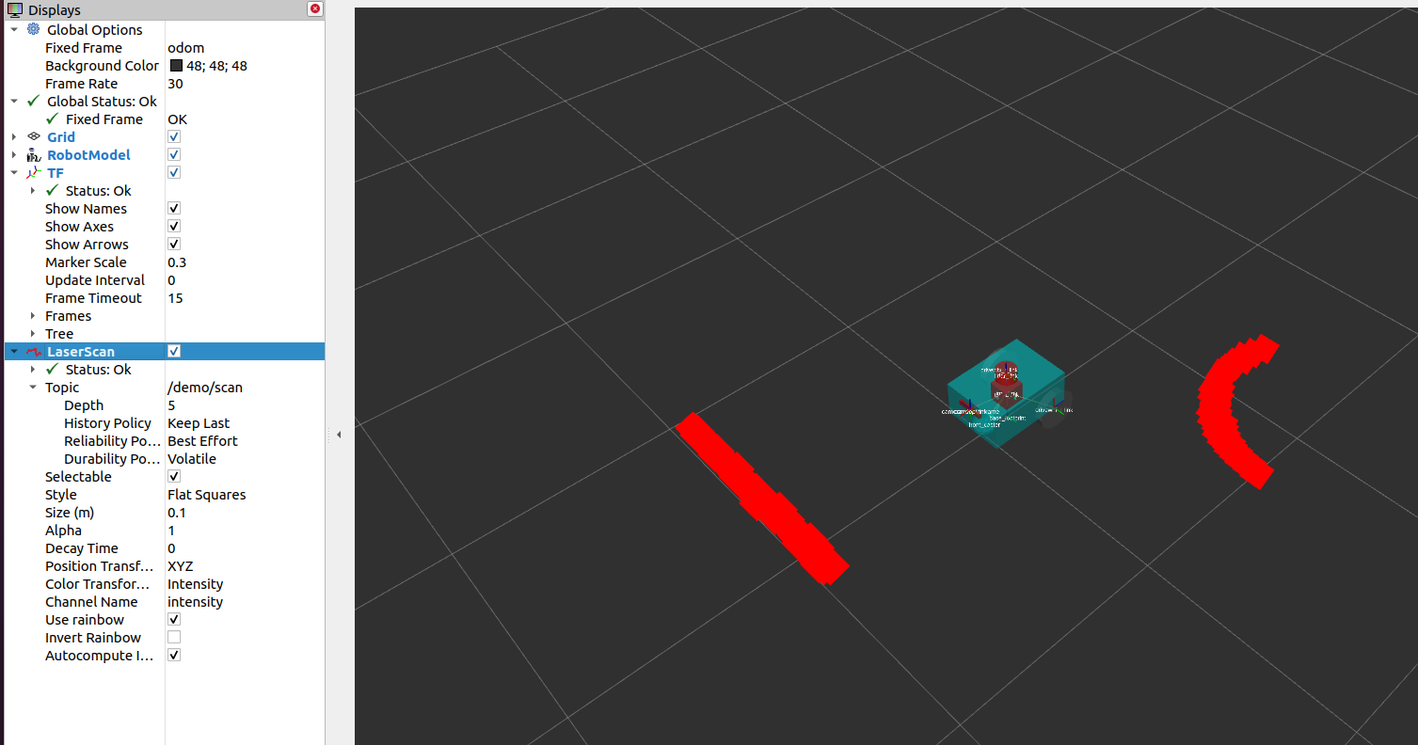
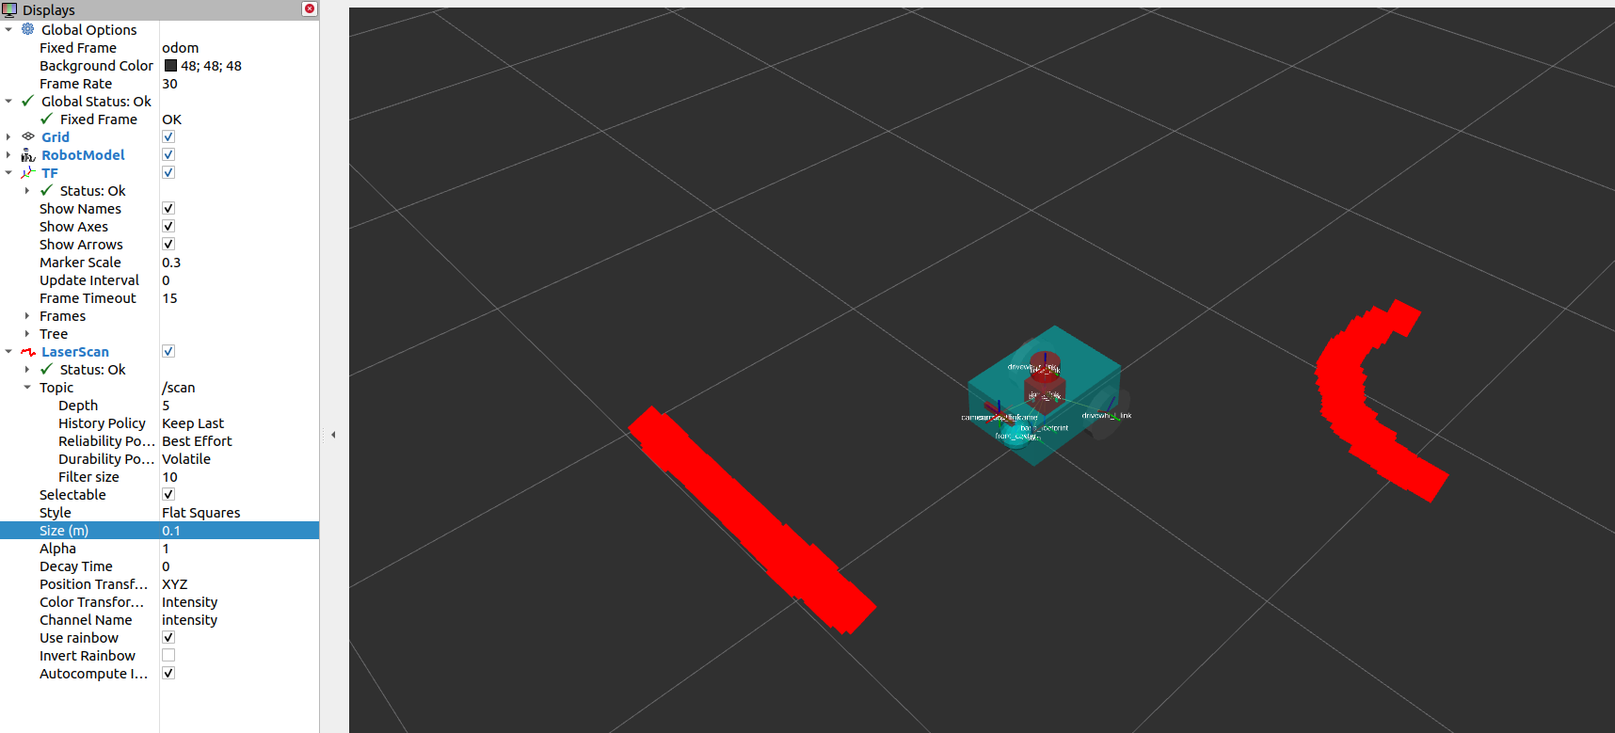
Changes according to code review

diff --git a/setup_guides/sensors/setup_sensors.rst b/setup_guides/sensors/setup_sensors.rst
@@ -30,46 +30,28 @@ sensor_msgs/LaserScan
 
 This message represents a single scan from a planar laser range-finder. This message is used in ``slam_toolbox`` and ``nav2_amcl`` for localization and mapping, or in ``nav2_costmap_2d`` for perception.
 
-.. image:: images/sensor_laserscan_gazebo.png
-    :class: with-border
-    :width: 49 %
-
-.. image:: images/sensor_laserscan_rviz.png
-    :class: with-border
-    :width: 49 %   
+.. image:: images/sensor_laserscan.png
 
 sensor_msgs/PointCloud2
 -----------------------
 
 This message holds a collection of 3D points, plus optional additional information about each point. This can be from a 3D lidar, a 2D lidar, a depth camera or more.
 
-.. image:: images/sensor_pointcloud2_gazebo.png
-    :width: 35 %
-
-.. image:: images/sensor_pointcloud2_rviz.png
-    :width: 49 %  
+.. image:: images/sensor_pointcloud2.png
 
 sensor_msgs/Range
 -----------------
 
 This is a single range reading from an active ranger that emits energy and reports one range reading that is valid along an arc at the distance measured. A sonar, IR sensor, or 1D range finder are examples of sensors that use this message.
 
-.. image:: images/sensor_range_gazebo.png
-    :width: 49 %
-
-.. image:: images/sensor_range_rviz.png
-    :width: 49 %   
+.. image:: images/sensor_range.png
 
 sensor_msgs/Image
 -----------------
 
 This represents the sensor readings from RGB or depth camera, corresponding to RGB or range values.
 
-.. image:: images/sensor_image_gazebo.png
-    :width: 43 %
-
-.. image:: images/sensor_image_rviz.png
-    :width: 49 %   
+.. image:: images/sensor_image.png
 
 Simulating Sensors using Gazebo
 *******************************
@@ -84,7 +66,7 @@ Adding Gazebo Plugins to a URDF
 Let us first add a lidar sensor to ``sam_bot``. Open the URDF file, `src/description/sam_bot_description.urdf <https://github.com/ros-planning/navigation2_tutorials/blob/master/sam_bot_description/src/description/sam_bot_description.urdf>`_ and paste the following lines before the ``</robot>`` tag.
 
 .. code-block:: xml
-  :lineno-start: 249
+  :lineno-start: 251
 
   <link name="lidar_link">
     <inertial>
@@ -141,7 +123,6 @@ Let us first add a lidar sensor to ``sam_bot``. Open the URDF file, `src/descrip
       </ray>
       <plugin name="scan" filename="libgazebo_ros_ray_sensor.so">
         <ros>
-          <namespace>/demo</namespace>
           <remapping>~/out:=scan</remapping>
         </ros>
         <output_type>sensor_msgs/LaserScan</output_type>
@@ -150,12 +131,12 @@ Let us first add a lidar sensor to ``sam_bot``. Open the URDF file, `src/descrip
     </sensor>
   </gazebo>
 
-In the code snippet above, we create a ``lidar_link`` which will be referenced by the ``gazebo_ros_ray_sensor`` plugin as the location to attach our sensor. We also set values to the simulated lidar's scan and range properties. Lastly, we set the ``demo/scan`` as the topic to which it will publish the ``sensor_msgs/LaserScan`` messages.
+In the code snippet above, we create a ``lidar_link`` which will be referenced by the ``gazebo_ros_ray_sensor`` plugin as the location to attach our sensor. We also set values to the simulated lidar's scan and range properties. Lastly, we set the ``/scan`` as the topic to which it will publish the ``sensor_msgs/LaserScan`` messages.
 
 Next, let us add a depth camera to ``sam_bot``. Paste the following lines after the ``</gazebo>`` tag of the lidar sensor. 
 
 .. code-block:: xml
-  :lineno-start: 313
+  :lineno-start: 314
 
   <link name="camera_link">
     <visual>
@@ -210,9 +191,6 @@ Next, let us add a depth camera to ``sam_bot``. Paste the following lines after 
         </clip>
       </camera>
       <plugin name="depth_camera_controller" filename="libgazebo_ros_camera.so">
-        <ros>
-          <namespace>/demo</namespace>
-        </ros>
         <baseline>0.2</baseline>
         <alwaysOn>true</alwaysOn>
         <updateRate>0.0</updateRate>
@@ -233,7 +211,7 @@ Next, let us add a depth camera to ``sam_bot``. Paste the following lines after 
     </sensor>
   </gazebo>
 
-Similar to the lidar sensor, we create ``camera_link`` which will be referenced by the ``gazebo_ros_camera`` plugin as the sensor attachment location. We also create a ``camera_depth_frame`` that is attached to the ``camera_link`` and will be set as the ``<frameName>`` of the depth camera plugin.  We also configure the plugin such that it will publish ``sensor_msgs/Image`` and ``sensor_msgs/PointCloud2`` messages to ``/demo/depth_camera/image_raw`` and  ``/demo/depth_camera/points`` topics respectively. Lastly, we also set up other basic configuration properties for our depth camera.
+Similar to the lidar sensor, we create ``camera_link`` which will be referenced by the ``gazebo_ros_camera`` plugin as the sensor attachment location. We also create a ``camera_depth_frame`` that is attached to the ``camera_link`` and will be set as the ``<frameName>`` of the depth camera plugin.  We also configure the plugin such that it will publish ``sensor_msgs/Image`` and ``sensor_msgs/PointCloud2`` messages to ``/depth_camera/image_raw`` and  ``/depth_camera/points`` topics respectively. Lastly, we also set up other basic configuration properties for our depth camera.
 
 Launch and Build Files
 ======================
@@ -285,25 +263,22 @@ In the RViz window, we can verify if we have properly modeled our sensors and if
 .. image:: images/rviz_sensors.png
     :align: center
 
-Lastly, we can also visualize the sensor readings in RViz.  To visualize the ``sensor_msgs/LaserScan`` message published on ``demo/scan`` topic, click the add button at the bottom part of the RViz window. Then go to the ``By topic`` tab and select the ``LaserScan`` option under ``/demo/scan``, as shown below.
+Lastly, we can also visualize the sensor readings in RViz.  To visualize the ``sensor_msgs/LaserScan`` message published on ``/scan`` topic, click the add button at the bottom part of the RViz window. Then go to the ``By topic`` tab and select the ``LaserScan`` option under ``/scan``, as shown below.
 
 .. image:: images/add_topic_laserscan.png
     :align: center
+    :width: 400
 
-Next, set the ``Reliability Policy`` to ``Best Effort`` and set the ``size`` to 0.1 to see the points clearer. You should see the visualized ``LaserScan`` detection as shown below. This corresponds to the detected cube and sphere that we added to the Gazebo world. 
+Next, set the ``Reliability Policy`` in RViz to ``Best Effort`` and set the ``size`` to 0.1 to see the points clearer. You should see the visualized ``LaserScan`` detection as shown below. This corresponds to the detected cube and sphere that we added to the Gazebo world. 
 
 .. image:: images/demo_laserscan_rviz.png
     :align: center
 
-To visualize ``sensor_msgs/Image`` and ``sensor_msgs/PointCloud2``, do the same for topics ``demo/depth_camera/image_raw`` and ``/demo/depth_camera/points`` respectively:
+To visualize ``sensor_msgs/Image`` and ``sensor_msgs/PointCloud2``, do the same for topics ``/depth_camera/image_raw`` and ``/depth_camera/points`` respectively:
 
-.. image:: images/add_topic_image.png
-    :width: 49 %
+.. image:: images/add_topic_image_pointcloud2.png
 
-.. image:: images/add_topic_pointcloud2.png
-    :width: 49 %
-
-After adding the ``demo/depth_camera/image_raw`` topic in RViz, you should see the cube in the image window at the lower-left side of the RViz window, as shown below.
+After adding the ``/depth_camera/image_raw`` topic in RViz, set the ``Reliability Policy`` in RViz to ``Best Effort``. Then you should see the cube in the image window at the lower-left side of the RViz window, as shown below.
 
 .. image:: images/demo_image_rviz.png
     :align: center
@@ -318,7 +293,9 @@ Mapping and Localization
 ************************
 Now that we have a robot with its sensors set up, we can use the obtained sensor information to build a map of the environment and to localize the robot on the map. The ``slam_toolbox`` package is a set of tools and capabilities for 2D Simultaneous Localization and Mapping (SLAM) in potentially massive maps with ROS2. It is also one of the officially supported SLAM libraries in Nav2, and we recommend to use this package in situations you need to use SLAM on your robot setup. Aside from the ``slam_toolbox``, localization can also be implemented through the ``nav2_amcl`` package. This package implements Adaptive Monte Carlo Localization (AMCL) which estimates the position and orientation of the robot in a map. Other techniques may also be available, please check Nav2 documentation for more information.
 
-Both the ``slam_toolbox`` and ``nav2_amcl`` use information from the laser scan sensor to be able to perceive the robot's environment. Hence, to verify that they can access the laser scan sensor readings, we must make sure that they are subscribed to the correct topic that publishes the ``sensor_msgs/LaserScan`` message. This can be configured by setting their ``scan_topic`` parameters to the topic that publishes that message. In-depth discussions on the complete configuration parameters will not be a scope of our tutorials since they can be pretty complex. Instead, we recommend you to have a look at their official documentation in the links below.
+Both the ``slam_toolbox`` and ``nav2_amcl`` use information from the laser scan sensor to be able to perceive the robot's environment. Hence, to verify that they can access the laser scan sensor readings, we must make sure that they are subscribed to the correct topic that publishes the ``sensor_msgs/LaserScan`` message. This can be configured by setting their ``scan_topic`` parameters to the topic that publishes that message. It is a convention to publish the ``sensor_msgs/LaserScan`` messages to  ``/scan`` topic. Thus, by default, the ``scan_topic`` parameter is set to ``/scan``. Recall that when we added the lidar sensor to ``sam_bot`` in the previous section, we set the topic to which the lidar sensor will publish the ``sensor_msgs/LaserScan`` messages as ``/scan``. 
+
+In-depth discussions on the complete configuration parameters will not be a scope of our tutorials since they can be pretty complex. Instead, we recommend you to have a look at their official documentation in the links below.
 
 .. seealso::
   | For the complete list of configuration parameters of ``slam_toolbox``, see the `Github repository of slam_toolbox <https://github.com/SteveMacenski/slam_toolbox#readme>`_.
@@ -328,18 +305,17 @@ Both the ``slam_toolbox`` and ``nav2_amcl`` use information from the laser scan 
 You can also refer to the `(SLAM) Navigating While Mapping guide <https://navigation.ros.org/tutorials/docs/navigation2_with_slam.html>`_ for the tutorial on how to use Nav2 with SLAM. You can verify that ``slam_toolbox`` and ``nav2_amcl`` have been correctly setup by visualizing the map and the robot's pose in RViz, similar to what was shown in the previous section.
 
 
-Costmap_2D
+Costmap 2D
 **********
-The costmap represents the environment of the robot in the form of an occupancy grid. The cells in the occupancy grid store cost values between 0-254 which denote a cost to travel through these zones. A cost of 0 means the cell is free while a cost of 254 means that the cell is lethally occupied. Values in between these extremes are used by navigation algorithms to steer your robot away from obstacles as a potential field. Costmaps in Nav2 are implemented through the ``nav2_costmap_2d`` package. 
+The costmap 2D package makes use of the sensor information to provide a representation of the robot's environment in the form of an occupancy grid. The cells in the occupancy grid store cost values between 0-254 which denote a cost to travel through these zones. A cost of 0 means the cell is free while a cost of 254 means that the cell is lethally occupied. Values in between these extremes are used by navigation algorithms to steer your robot away from obstacles as a potential field. Costmaps in Nav2 are implemented through the ``nav2_costmap_2d`` package. 
 
-The costmap implementation consists of multiple layers, each of which has a certain function that contributes to a cell's overall cost. The package consists of the following layers, but are plugin-based to allow customization and new layers to be used as well: static layer, inflation layer, range layer, obstacle layer, and voxel layer. The static layer represents the map section of the costmap, like those produced by SLAM. The obstacle layer includes the obstacles reported by sensors in 2D. The voxel layer is similar to the obstacle layer but handles 3D data instead. The range layer allows for the inclusion of sonar and infrared data to our costmap. Lastly, the inflation layer represents the added cost values around lethal obstacles such that our robot avoids navigating into obstacles due to the robot's geometry. In the next subsection of this tutorial, we will have some discussion about the basic configuration of the different layers in ``nav2_costmap_2d``. 
+The costmap implementation consists of multiple layers, each of which has a certain function that contributes to a cell's overall cost. The package consists of the following layers, but are plugin-based to allow customization and new layers to be used as well: static layer, inflation layer, range layer, obstacle layer, and voxel layer. The static layer represents the map section of the costmap, obtained from the messages published to the ``/map`` topic like those produced by SLAM.  The obstacle layer includes the objects detected by sensors that publish either or both the ``LaserScan`` and ``PointCloud2`` messages. The voxel layer is similar to the obstacle layer such that it can use either or both the ``LaserScan`` and ``PointCloud2`` sensor information but handles 3D data instead. The range layer allows for the inclusion of information provided by sonar and infrared sensors. Lastly, the inflation layer represents the added cost values around lethal obstacles such that our robot avoids navigating into obstacles due to the robot's geometry. In the next subsection of this tutorial, we will have some discussion about the basic configuration of the different layers in ``nav2_costmap_2d``. 
 
 The layers are integrated into the costmap through a plugin interface and then inflated using a user-specified `inflation radius <http://wiki.ros.org/costmap_2d/hydro/inflation>`_, if the inflation layer is enabled. For a deeper discussion on costmap concepts, you can have a look at the `ROS1 costmap_2D documentation <http://wiki.ros.org/costmap_2d>`_. Note that the ``nav2_costmap_2d`` package is mostly a straightforward ROS2 port of the ROS1 navigation stack version with minor changes required for ROS2 support and some new layer plugins.
 
-Configuring Costmap_2D
-======================
-
-In this subsection, we will show an example configuration of ``costmap_2d`` and explain the basic configuration parameters for your sensors. The code block below is an example of ``costmap_2d`` configuration using static layer, obstacle layer, voxel layer, and inflation layer. Note that this block of parameters will be included in the `config/nav2_params.yaml <https://github.com/ros-planning/navigation2_tutorials/blob/master/sam_bot_description/config/nav2_params.yaml>`_ file  when we launch Nav2 at the end of this section.
+Configuring nav2_costmap_2d
+===========================
+In this subsection, we will show an example configuration of ``nav2_costmap_2d`` such that it uses the information provided by the lidar sensor of ``sam_bot``. We will show an example configuration that uses static layer, obstacle layer, voxel layer, and inflation layer. We set both the obstacle and voxel layer to use the ``LaserScan`` messages published  to the ``/scan`` topic by the lidar sensor. We also set some of the basic parameters to define how the detected obstacles are reflected in the costmap. Note that this configuration is to be included in the configuration file of Nav2. 
 
 .. code-block:: yaml
   :lineno-start: 1
@@ -352,10 +328,10 @@ In this subsection, we will show an example configuration of ``costmap_2d`` and 
         global_frame: map
         robot_base_frame: base_link
         use_sim_time: True
-        robot_radius: 0.3
+        robot_radius: 0.22
         resolution: 0.05
-        track_unknown_space: true
-        rolling_window: true
+        track_unknown_space: false
+        rolling_window: false
         plugins: ["static_layer", "obstacle_layer", "inflation_layer"]
         static_layer:
           plugin: "nav2_costmap_2d::StaticLayer"
@@ -365,7 +341,7 @@ In this subsection, we will show an example configuration of ``costmap_2d`` and 
           enabled: True
           observation_sources: scan
           scan:
-            topic: /demo/scan
+            topic: /scan
             max_obstacle_height: 2.0
             clearing: True
             marking: True
@@ -392,7 +368,7 @@ In this subsection, we will show an example configuration of ``costmap_2d`` and 
         width: 3
         height: 3
         resolution: 0.05
-        footprint: "[ [0.21, 0.195], [0.21, -0.195], [-0.21, -0.195], [-0.21, 0.195] ]"
+        robot_radius: 0.22
         plugins: ["voxel_layer", "inflation_layer"]
         voxel_layer:
           plugin: "nav2_costmap_2d::VoxelLayer"
@@ -405,7 +381,7 @@ In this subsection, we will show an example configuration of ``costmap_2d`` and 
           mark_threshold: 0
           observation_sources: scan
           scan:
-            topic: /demo/scan
+            topic: /scan
             max_obstacle_height: 2.0
             clearing: True
             marking: True
@@ -422,7 +398,7 @@ The layers that we use for our configuration are defined in the ``plugins`` para
 
 For the static layer (lines 14-16), we set the ``map_subscribe_transient_local`` parameter to ``True``. This sets the QoS settings for the map topic. Another important parameter for the static layer is the ``map_topic`` which defines the map topic to subscribe to. This defaults to ``/map`` topic when not defined. 
 
-For the obstacle layer (lines 17-30), we define its sensor source under the ``observation_sources`` parameter (line 20) as ``scan`` whose parameters are set up in lines 22-30. We set its ``topic`` parameter as the topic that publishes the defined sensor source and we set the ``data_type`` according to the sensor source it will use. In our configuration, the obstacle layer will use the ``LaserScan`` published by the lidar scanner on the ``/demo/scan``. 
+For the obstacle layer (lines 17-30), we define its sensor source under the ``observation_sources`` parameter (line 20) as ``scan`` whose parameters are set up in lines 22-30. We set its ``topic`` parameter as the topic that publishes the defined sensor source and we set the ``data_type`` according to the sensor source it will use. In our configuration, the obstacle layer will use the ``LaserScan`` published by the lidar sensor to ``/scan``. 
 
 Note that the obstacle layer and voxel layer can use either or both ``LaserScan`` and ``PointCloud2`` as their ``data_type`` but it is set to ``LaserScan`` by default. The code snippet below shows an example of using both the ``LaserScan`` and ``PointCloud2`` as the sensor sources. This may be particularly useful when setting up your own physical robot.
 
@@ -433,17 +409,17 @@ Note that the obstacle layer and voxel layer can use either or both ``LaserScan`
     enabled: True
     observation_sources: scan pointcloud
     scan:
-      topic: /demo/scan
+      topic: /scan
       data_type: "LaserScan"
     pointcloud:
-      topic: /demo/depth_camera/points
+      topic: /depth_camera/points
       data_type: "PointCloud2"
 
 For the other parameters of the obstacle layer, the ``max_obstacle_height`` parameter sets the maximum height of the sensor reading to return to the occupancy grid. The minimum height of the sensor reading can also be set using the ``min_obstacle_height`` parameter, which defaults to 0 since we did not set it in the configation. The ``clearing`` parameter is used to set whether the obstacle is to be removed from the costmap or not. The clearing operation is done by raytracing through the grid. The maximum and minimum range to raytrace clear objects from the costmap is set using the ``raytrace_max_range`` and ``raytrace_min_range`` respectively. The ``marking`` parameter is used to set whether the inserted obstacle is marked into the costmap or not. We also set the maximum and minimum range to mark obstacles in the costmap through the ``obstacle_max_range`` and ``obstacle_min_range`` respectively. 
 
 For the inflation layer (lines 31-34 and 67-70), we set the exponential decay factor across the inflation radius using the ``cost_scaling_factor`` parameter. The value of the radius to inflate around lethal obstacles is defined using the ``inflation_radius``. 
 
-For the voxel layer (lines 51-66), we set the ``publish_voxel_map`` parameter to ``True`` to enable the publishing of the 3D voxel grid. The resolution of the voxels in height is defined using the ``z_resolution`` parameter, while the number of voxels in each column is defined using the ``z_voxels`` parameter. The ``mark_threshold`` parameter sets the minimum number of voxels in a column to mark as occupied in the occupancy grid. We set the ``observation_sources`` parameter of the voxel layer to ``scan``, and we set the scan parameters (in lines 61-66) similar to the parameters that we have discussed for the obstacle layer. As defined in its ``topic`` and ``data_type`` parameters, the voxel layer will use the ``LaserSCan`` published on the ``/demo/scan`` topic by the lidar scanner.
+For the voxel layer (lines 51-66), we set the ``publish_voxel_map`` parameter to ``True`` to enable the publishing of the 3D voxel grid. The resolution of the voxels in height is defined using the ``z_resolution`` parameter, while the number of voxels in each column is defined using the ``z_voxels`` parameter. The ``mark_threshold`` parameter sets the minimum number of voxels in a column to mark as occupied in the occupancy grid. We set the ``observation_sources`` parameter of the voxel layer to ``scan``, and we set the scan parameters (in lines 61-66) similar to the parameters that we have discussed for the obstacle layer. As defined in its ``topic`` and ``data_type`` parameters, the voxel layer will use the ``LaserSCan`` published on the ``/scan`` topic by the lidar scanner.
 
 Note that the we are not using a range layer for our configuration but it may be useful for your own robot setup. For the range layer, its basic parameters are the ``topics``, ``input_sensor_type``, and ``clear_on_max_reading`` parameters. The range topics to subscribe to are defined in the ``topics`` parameter. The ``input_sensor_type`` is set to either ``ALL``, ``VARIABLE``, or ``FIXED``. The ``clear_on_max_reading`` is a boolean parameter that sets whether to clear the sensor readings on max range.  Have a look at the configuration guide in the link below in case you need to set it up. 
 
@@ -453,10 +429,24 @@ Note that the we are not using a range layer for our configuration but it may be
 
 Build, Run and Verification
 ===========================
+We will first launch ``display.launch.py`` which launches the robot state publisher that provides the ``base_link`` => ``sensors`` transformations in our URDF. It also launches Gazebo that acts as our physics simulator and also provides the ``odom`` => ``base_link`` from the differential drive plugin, which we added to ``sam_bot`` in the previous guide, `Simulating an Odometry System Using Gazebo <https://navigation.ros.org/setup_guides/odom/setup_odom.html#simulating-an-odometry-system-using-gazebo>`_. It also launches RViz which we can use to visualize the robot and sensor information. 
 
-In this subsection, we will first configure ``slam_toolbox`` to make it subscribe to ``/demo/scan`` topic and then launch it to publish to ``/map`` topic and provide the ``map`` => ``odom`` transform. Recall that the ``map`` => ``odom`` transfrom is one of the primary requirements of the Nav2 system. The messages published on the ``/map`` topic will then be used by the static layer of the ``global_costmap``. 
+Then we will launch ``slam_toolbox`` to publish to ``/map`` topic and provide the ``map`` => ``odom`` transform. Recall that the ``map`` => ``odom`` transform is one of the primary requirements of the Nav2 system. The messages published on the ``/map`` topic will then be used by the static layer of the ``global_costmap``. 
 
-Now that we have properly setup our robot descirption, odometry sensors, and necessary transforms, we can finally launch the Nav2 system itself. For now, we will only be exploring the costmap generation system of Nav2. After launching Nav2, we will visualize the costmaps in RViz to confirm our output. 
+After we have properly setup our robot description, odometry sensors, and necessary transforms, we will finally launch the Nav2 system itself. For now, we will only be exploring the costmap generation system of Nav2. After launching Nav2, we will visualize the costmaps in RViz to confirm our output. 
+
+Launching display.launch.py
+---------------------------
+
+To launch ``display.launch.py``, open a new terminal and execute the lines below. 
+
+.. code-block:: shell
+
+  colcon build
+  . install/setup.bash
+  ros2 launch sam_bot_description display.launch.py
+
+RViz and the Gazebo should be launched with ``sam_bot`` present in both. The ``odom`` => ``base_link`` and ``base_link`` => ``sensors`` transforms should also show without errors in RViz.
 
 Launching slam_toolbox
 ----------------------
@@ -467,23 +457,11 @@ To be able to launch ``slam_toolbox``, make sure that you have installed the ``s
 
   sudo apt install ros-<ros2-distro>-slam-toolbox
 
-Now, we will configure the parameters of ``slam_toolbox``. Go to the ``config`` directory and create a ``mapper_params.yaml`` file. Then copy the contents of `config/mapper_params.yaml <https://github.com/ros-planning/navigation2_tutorials/blob/master/sam_bot_description/config/mapper_params.yaml>`_ and paste them into ``mapper_params.yaml``. 
-
-The important thing to note in the configuration of ``mapper_params.yaml`` is that we make ``slam_toolbox`` use the laser data published in ``/demo/scan`` by setting the ``scan_topic`` parameter to ``/demo/scan``. Again, the in-depth discussion of other parameters is not included in this tutorial, please refer to the official documentation of `slam_toolbox <https://github.com/SteveMacenski/slam_toolbox#readme>`_  for more information on other parameters. 
-
-Before we launch the ``slam_toolbox``, make sure you have launched sam_bot's ``display.launch.py`` by executing the the lines below. Remember that this provides our ``odom`` => ``base_link`` and ``base_link`` => ``sensors`` transformations. It also launches RViz which we can use to visualize the robot and Gazebo which acts as our physics simulator.
+We will launch the ``async_slam_toolbox_node`` of ``slam_toolbox`` using the package's built-in launch files. Open a new terminal and then execute the following lines:
 
 .. code-block:: shell
 
-  colcon build
-  . install/setup.bash
-  ros2 launch sam_bot_description display.launch.py
-
-Then, we will launch the ``async_slam_toolbox_node`` of ``slam_toolbox`` and set its parameters to ``mapper_params.yaml`` using the package's built-in launch files. Open a new terminal and then execute the following lines:
-
-.. code-block:: shell
-
-  ros2 launch slam_toolbox online_async_launch.py slam_params_file:=<full/path/to/config/mapper_params.yaml>
+  ros2 launch slam_toolbox online_async_launch.py
 
 The ``slam_toolbox`` should now be publishing to the ``/map`` topic and providing the ``map`` => ``odom`` transform. 
 
@@ -505,9 +483,6 @@ The line above will create a ``frames.pdf`` file that shows the current transfor
 
 Launching Nav2
 --------------
-
-Next, we will configure the costmap parameters of Nav2 before we launch it.
-
 First, Make sure you have installed the Nav2 packages by executing the following:
 
 .. code-block:: shell
@@ -515,15 +490,13 @@ First, Make sure you have installed the Nav2 packages by executing the following
   sudo apt install ros-<ros2-distro>-navigation2
   sudo apt install ros-<ros2-distro>-nav2-bringup
 
-We will configure the parameters of Nav2 to use our costmap configuration in the previous subsection. Create a file named ``nav2_params.yaml`` under the ``config`` directory and then copy the contents of `config/nav2_params.yaml <https://github.com/ros-planning/navigation2_tutorials/blob/master/sam_bot_description/config/nav2_params.yaml>`_ and paste them into the newly created ``nav2_params.yaml`` file.
-
-Notice that the parameters of the ``nav2_costmap_2d`` that we discussed in the previous subsection are included in the `config/nav2_params.yaml <https://github.com/ros-planning/navigation2_tutorials/blob/master/sam_bot_description/config/nav2_params.yaml>`_ file. Aside from the ``nav2_costmap_2d`` parameters, we also set some basic parameters for the other nodes that are included in Nav2 implementation. 
-
-We will now launch Nav2 using the parameters in ``config/nav2_params.yaml``. Open a new terminal and execute the following:
+We will now launch Nav2 using the ``nav2_bringup``'s built-in launch file, ``navigation_launch.py`` . Open a new terminal and execute the following:
 
 .. code-block:: shell
 
-  ros2 launch nav2_bringup navigation_launch.py params_file:=<full/path/to/config/nav2_params.yaml>
+  ros2 launch nav2_bringup navigation_launch.py
+
+Note that the parameters of the ``nav2_costmap_2d`` that we discussed in the previous subsection are included in the default parameters of ``navigation_launch.py``. Aside from the ``nav2_costmap_2d`` parameters, it also contains parameters for the other nodes that are included in Nav2 implementation. 
 
 After we have properly set up and launched Nav2, the ``/global_costmap`` and ``/local_costmap`` topics should now be active.
 
@@ -537,7 +510,7 @@ To visualize the ``global_costmap`` in RViz, click the add button at the bottom-
 .. image:: images/costmap_global_rviz.png
     :align: center
 
-To visualize the ``local_costmap`` in RViz, select the ``Map`` under the ``/local_costmap/costmap`` topic. Set the ``color scheme`` in RViz to ``costmap`` to make it appear similar to the image below. 
+To visualize the ``local_costmap``  in RViz, select the ``Map`` under the ``/local_costmap/costmap`` topic. Set the ``color scheme`` in RViz to ``costmap`` to make it appear similar to the image below. 
 
 .. image:: images/local_costmap_rviz.png
     :align: center
